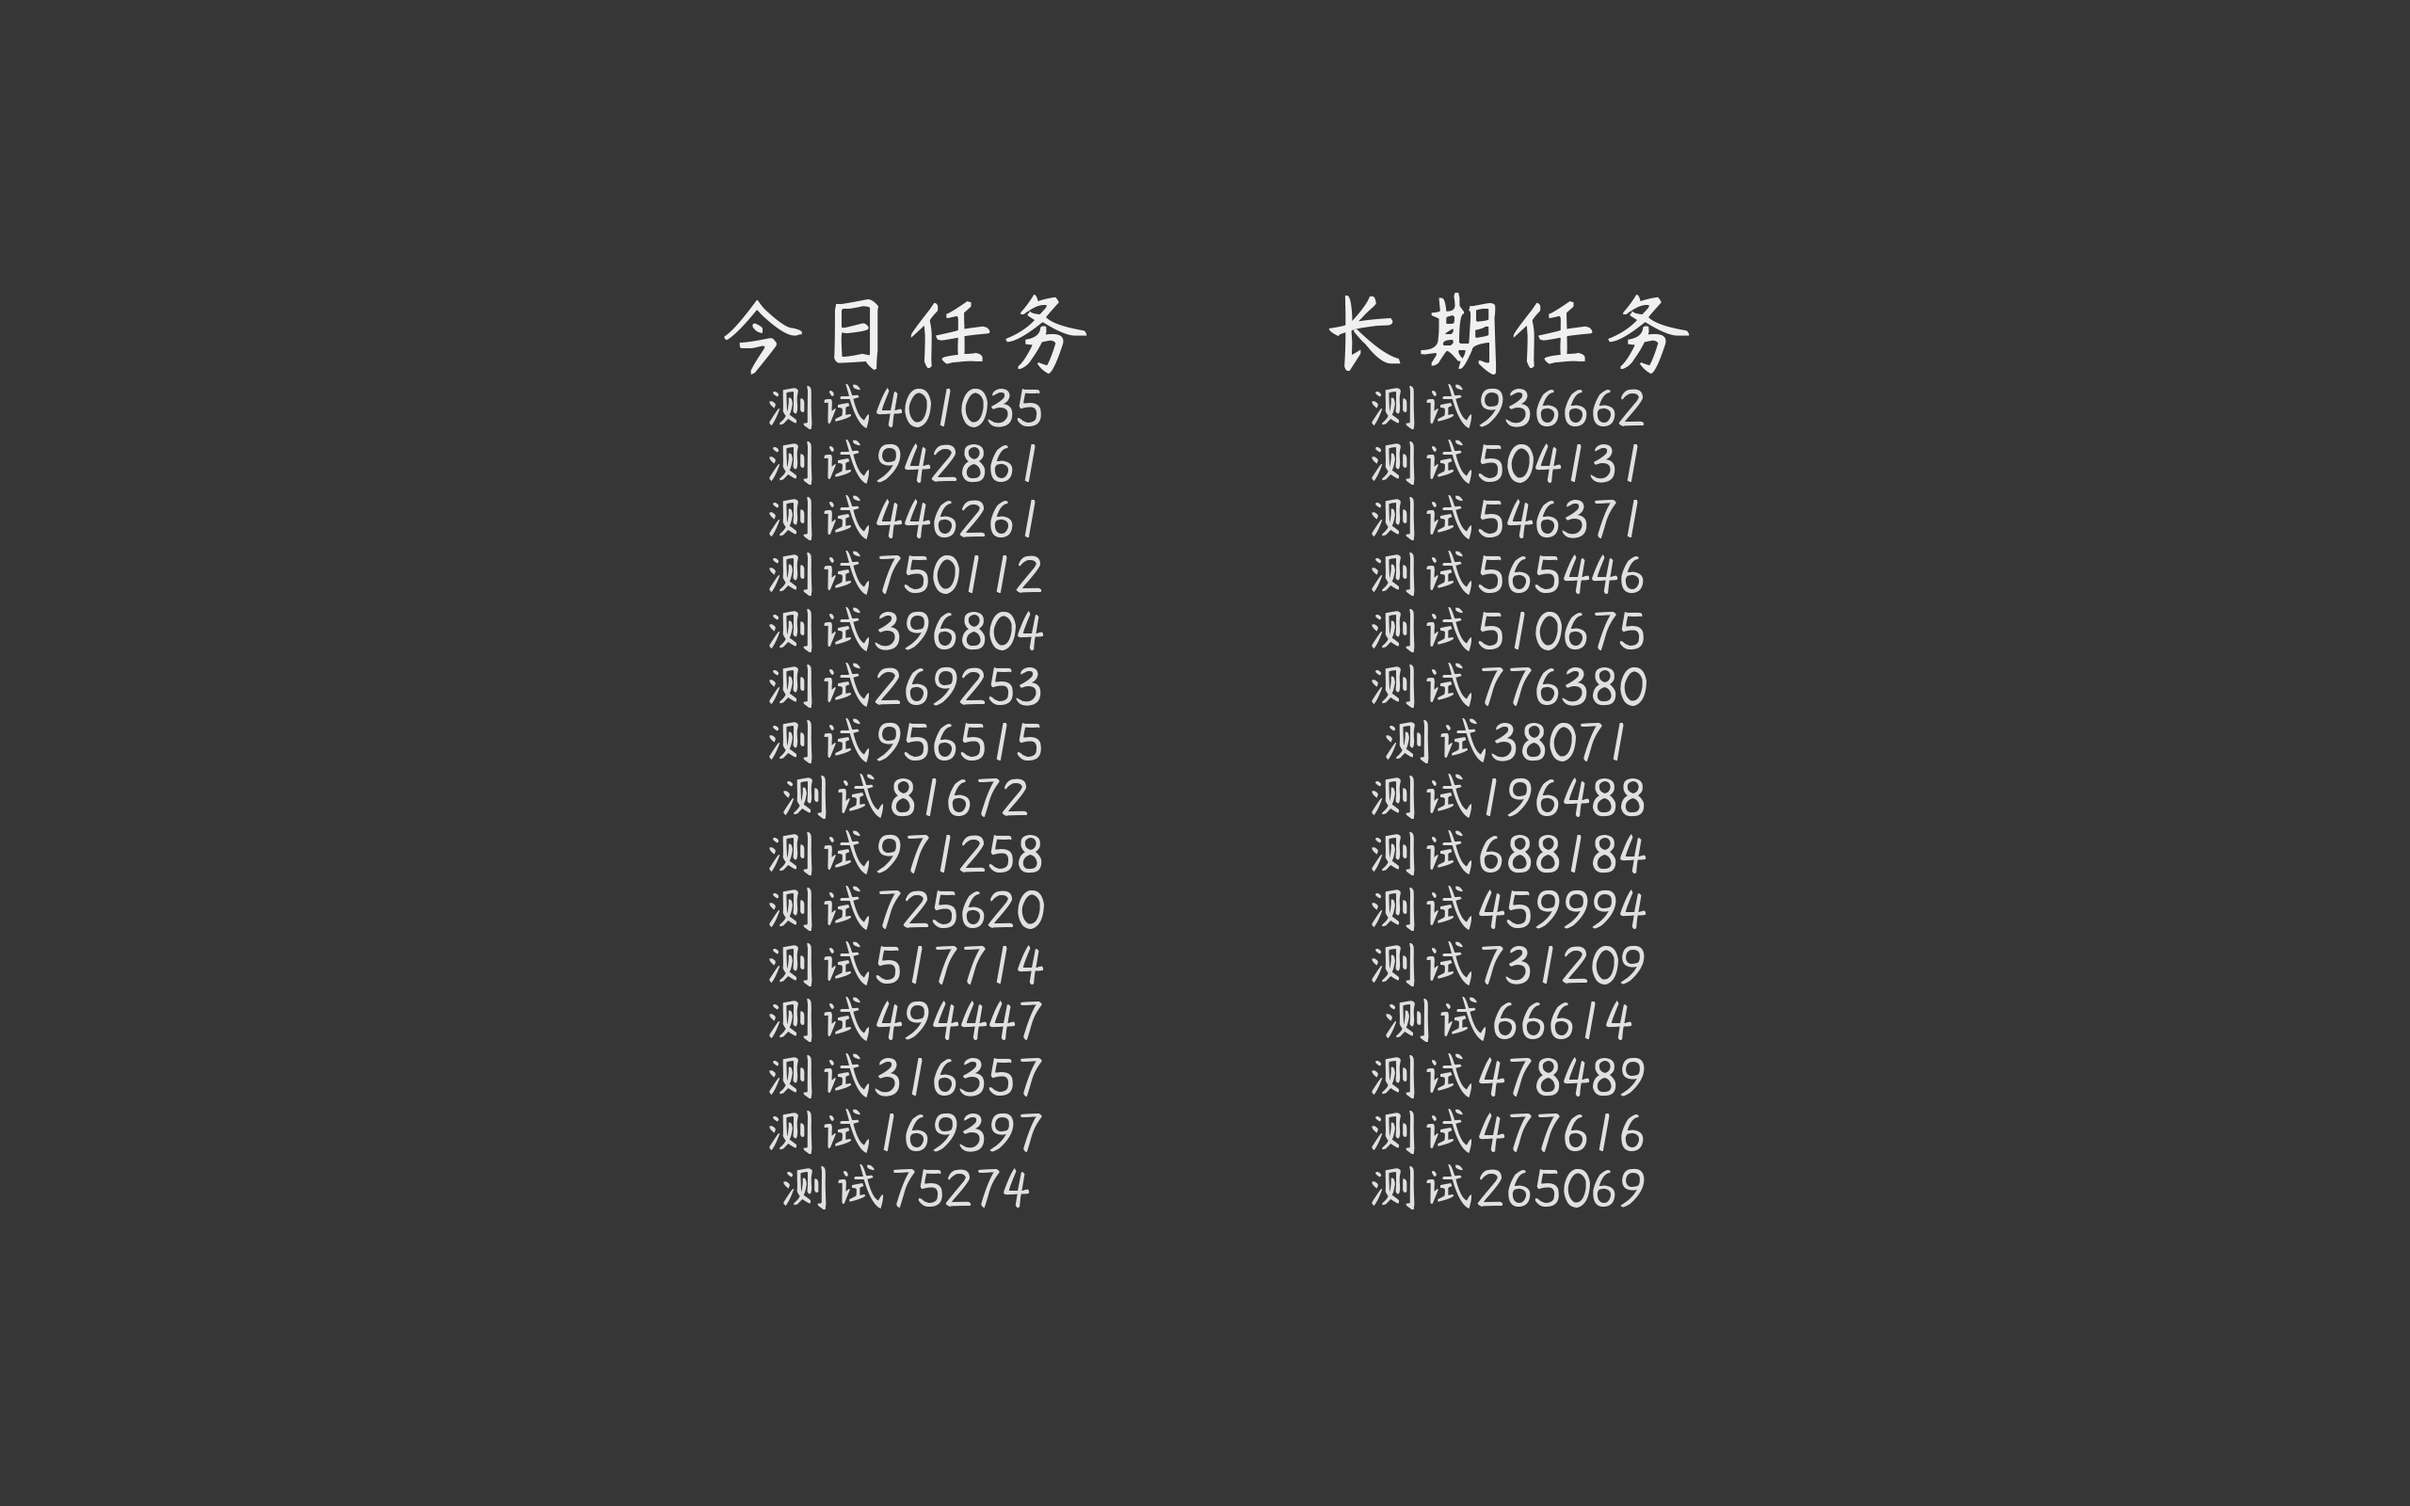
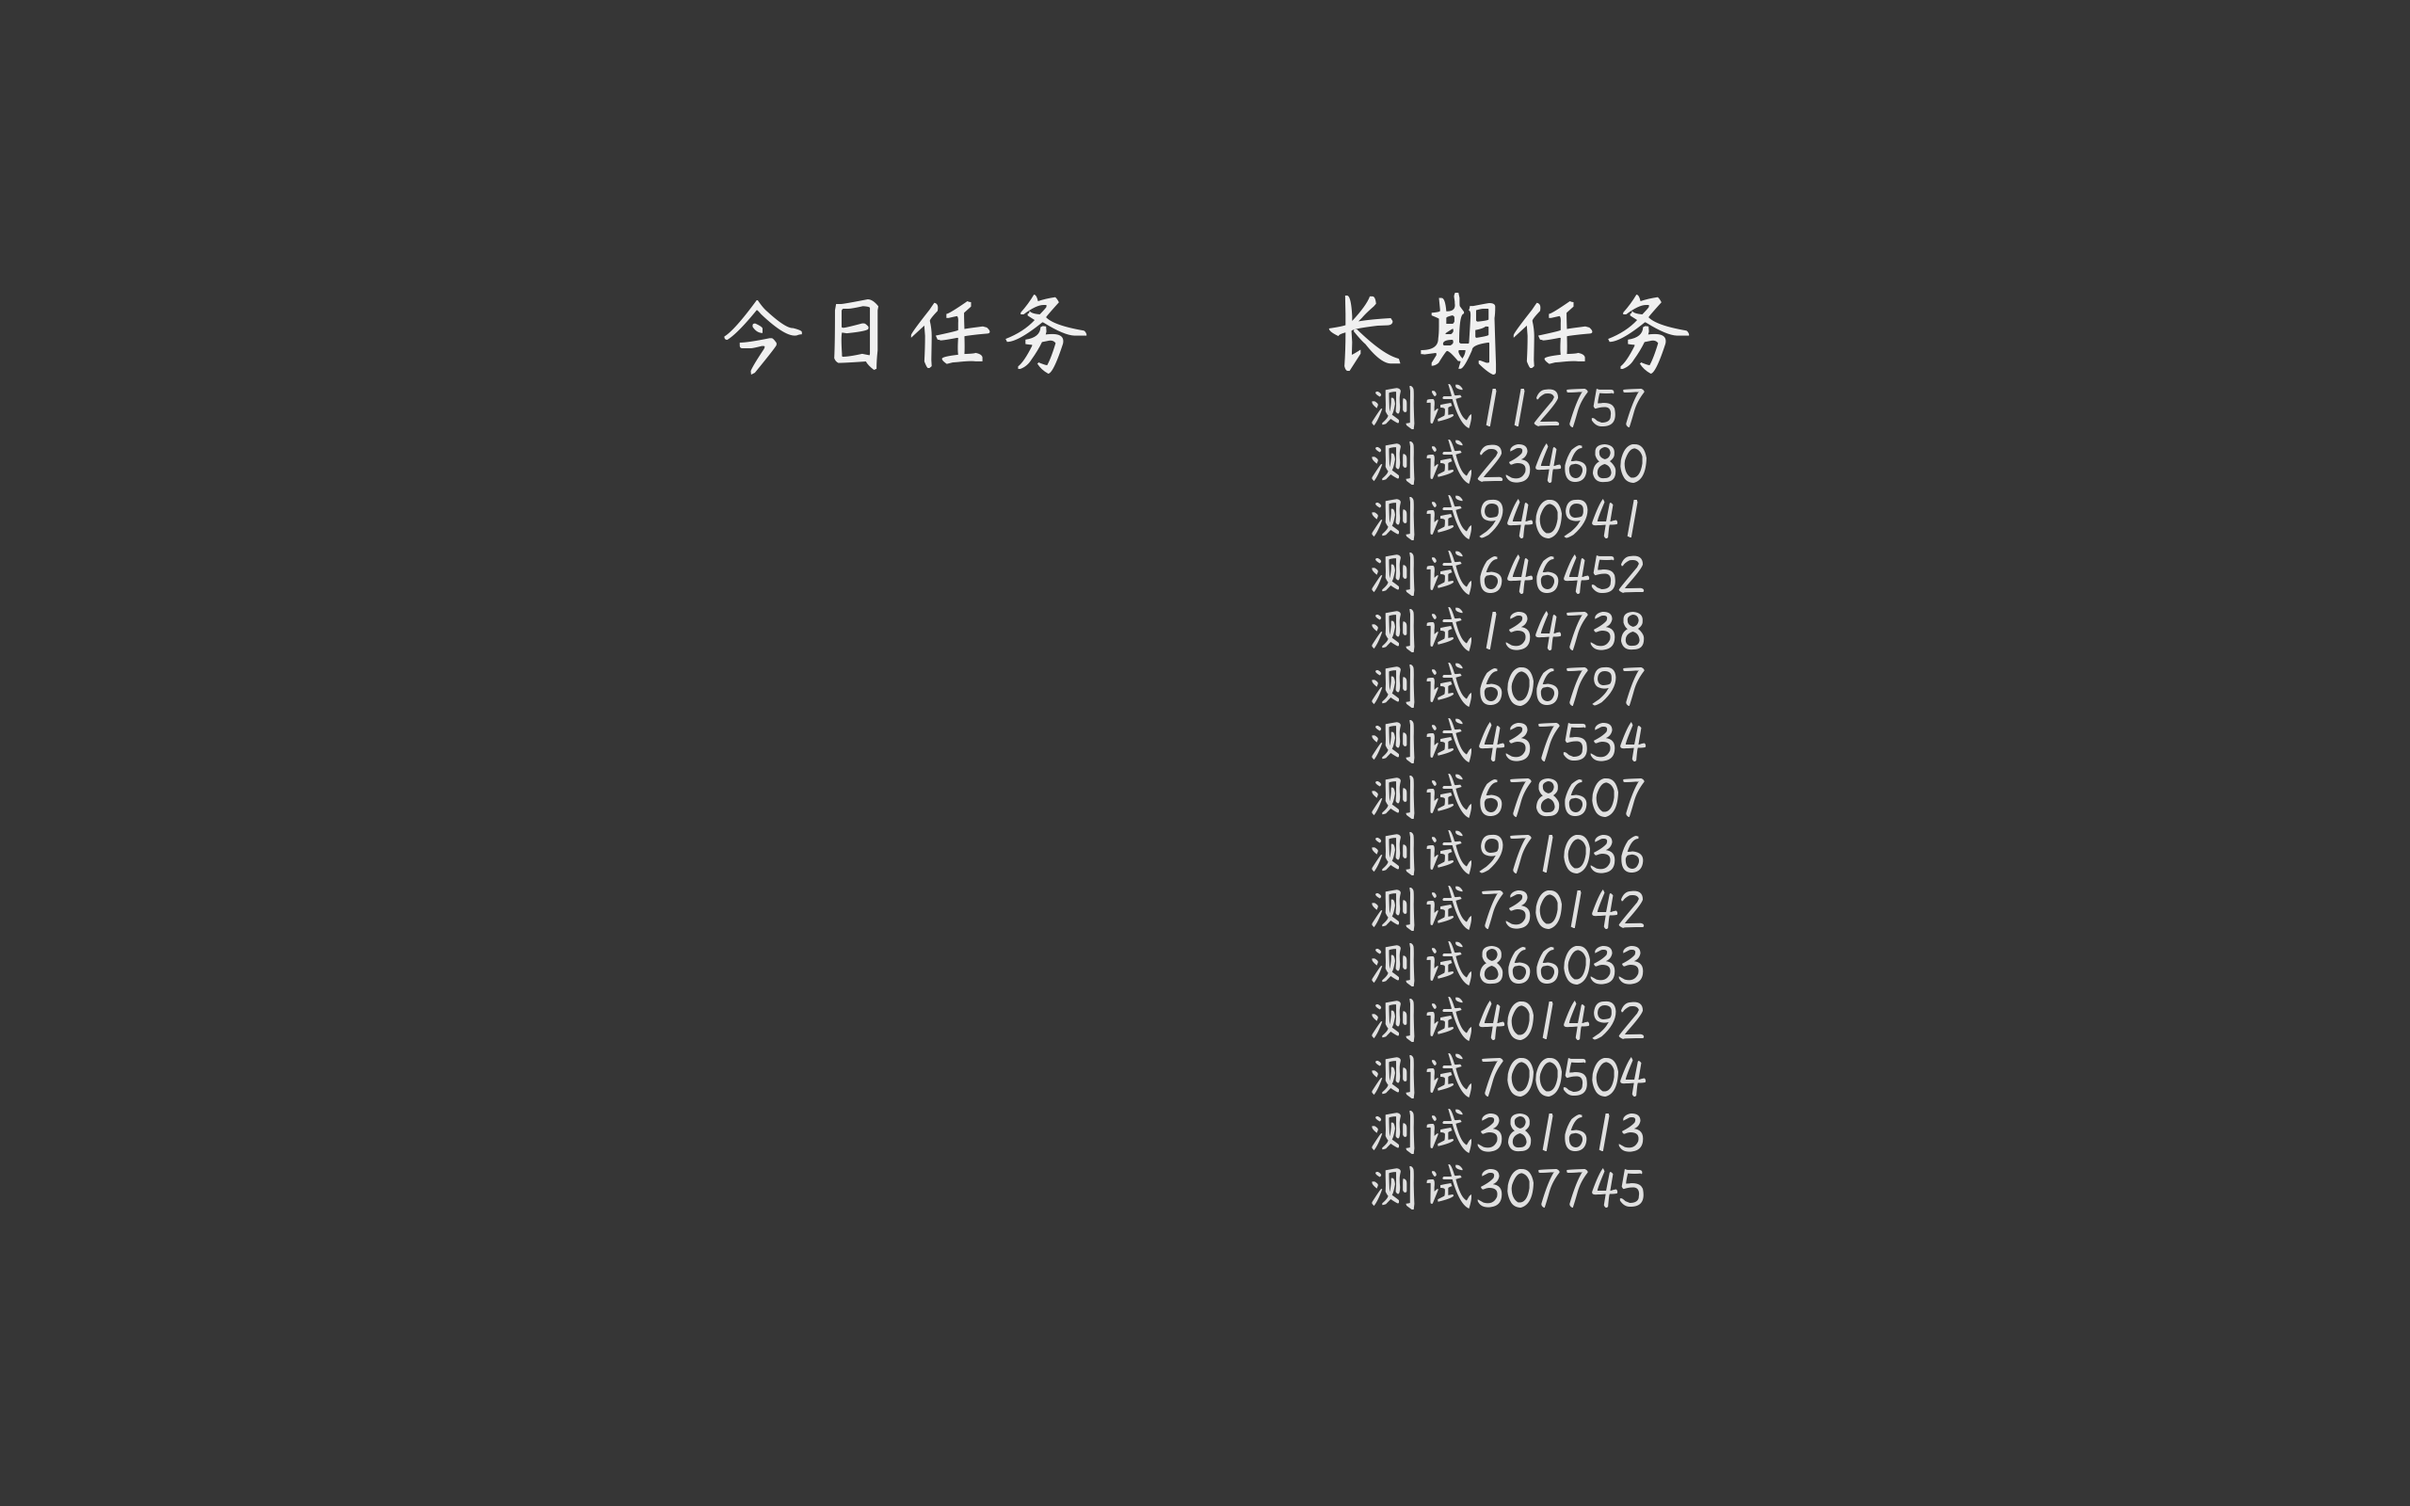
finish routine update

Changed region(s): [[0.3125, 0.25, 0.4375, 0.8125], [0.5625, 0.25, 0.6875, 0.8125]]

diff --git a/Code/Routine/routine.py b/Code/Routine/routine.py
@@ -1,6 +1,7 @@
 # routine.py
 
 from Routine import r_io
+import time
 
 # 创建周期任务
 def r_create():
@@ -11,11 +12,59 @@ def r_create():
     while True:
         try:
             int(cycle)
-            break
+            if cycle > 0:
+                break
+            else:
+                cycle = input('请输入正确的周期：')
         except:
             cycle = input('请输入正确的周期：')
     # 写入文件
     r_io.r_out_new(mission, cycle)
+
+# 标记周期任务已完成
+def r_finish():
+    # 获取文件内容
+    routine_list = r_io.r_in()
+    # 判断文件是否为空
+    if routine_list == []:
+        input('没有周期任务，按回车继续')
+        return
+    # 打印可标记的选项
+    index = 1
+    j = 0
+    routine_dict = {}
+    print('请选择已完成的周期任务序号：')
+    for r in routine_list:
+        # 判断任务是否被完成
+        if r[0] == '0':
+            # 判断是否在时间周期内
+            timegap = time.time() - time.mktime(time.strptime(r.split(',')[1], '%Y/%m/%d'))
+            if timegap % (3600 * 24 * int(r.split(',')[3])) < 3600 * 24:
+                mission = r.split(',')[2]
+                print('{}. {}'.format(index, mission))
+                routine_dict[index] = j
+                index += 1
+        j += 1
+    choice = input()
+    # 检测输入合法性
+    while True:
+        try:
+            choice = int(choice)
+            if choice <= 0 or choice > len(routine_list):
+                choice = input('请输入正确的序号：')
+            else:
+                break
+        except:
+            choice = input('请输入正确的序号：')
+    # 标记列表中的对象
+    r_temp = routine_list[routine_dict[choice]][1:]
+    r_temp = '1' + r_temp
+    routine_list[routine_dict[choice]] = r_temp
+    # 重新写入
+    r_file = open(r_io.ROUTINE_FILE, 'w', encoding='UTF-8')
+    r_file.close()
+    for r_line in routine_list:
+        r_io.r_out_old(r_line)
 
 # 删除周期任务
 def r_delete():

diff --git a/Code/Routine/r_paint.py b/Code/Routine/r_paint.py
@@ -1,5 +1,6 @@
 # r_paint.py
 
+import time
 from paint_init import *
 from Routine import r_io
 
@@ -9,16 +10,24 @@ def paint_routine():
     r_title_location = (WIN_WIDTH / 8 * 3 - r_title_size[0] / 2, WIN_HEIGHT * 3 / 16)
     DRAW.text(r_title_location, '今日任务', TITLE_COLOR, TITLE_FONT)
     # 绘制任务
-    with open(r_io.ROUTINE_FILE, 'r', encoding='UTF-8') as r_file:
-        r_mission_h = WIN_HEIGHT / 4
-        count = 0
-        for r in r_file.readlines():
-            mission = r.split(',')[2]
-            r_mission_size = MISSION_FONT.getsize(mission)[0]
-            r_mission_w = WIN_WIDTH / 8 * 3 - r_mission_size / 2
-            DRAW.text((r_mission_w, r_mission_h), mission, MISSION_COLOR, MISSION_FONT)
-            r_mission_h += WIN_HEIGHT / 27 # 控制行距
-            count += 1
-            if count >= 15:
-                break
-        r_file.close()
+    try:
+        r_file = open(r_io.ROUTINE_FILE, 'r', encoding='UTF-8')
+    except:
+        return
+    r_mission_h = WIN_HEIGHT / 4
+    count = 0
+    for r in r_file.readlines():
+        # 判断任务是否被完成
+        if r[0] == '0':
+            # 判断是否在时间周期内
+            timegap = time.time() - time.mktime(time.strptime(r.split(',')[1], '%Y/%m/%d'))
+            if timegap % (3600 * 24 * int(r.split(',')[3])) < 3600 * 24:
+                mission = r.split(',')[2]
+                r_mission_size = MISSION_FONT.getsize(mission)[0]
+                r_mission_w = WIN_WIDTH / 8 * 3 - r_mission_size / 2
+                DRAW.text((r_mission_w, r_mission_h), mission, MISSION_COLOR, MISSION_FONT)
+                r_mission_h += WIN_HEIGHT / 27 # 控制行距
+                count += 1
+                if count >= 15:
+                    break
+    r_file.close()

diff --git a/Code/Todo.py b/Code/Todo.py
@@ -2,12 +2,15 @@
 
 from os import system
 from sys import exit
+from time import time
+
 from Routine import *
 from Event import *
 import paint
 
 func_list = [('routine.r_create()','创建周期任务'),
              ('event.e_create()','创建单次任务'),
+             ('routine.r_finish()', '标记周期任务已完成'),
              ('routine.r_delete()','删除周期任务'),
              ('event.e_delete()','删除单次任务'),
              ('','启用可选模块'),
@@ -31,7 +34,7 @@ def main():
         try:
             if choice == '0':
                 paint.generateWallpaper()
-                paint.setWallpaper()
+                # paint.setWallpaper()
                 break
             else:
                 eval(func_list[int(choice) - 1][0])
@@ -44,4 +47,7 @@ if __name__ == '__main__':
     # for i in range(20):
     #     r_io.r_out_new('测试{}'.format(randint(0, 999999)), randint(0, 99))
     #     e_io.e_out_new('测试{}'.format(randint(0, 999999)), '{}/{}/{}'.format(randint(2000,2021), randint(1, 12), randint(1, 30)))
-    main()
+
+    # paint.generateWallpaper()
+    routine.r_finish()
+    # main()

diff --git a/Code/Event/e_paint.py b/Code/Event/e_paint.py
@@ -9,7 +9,8 @@ def paint_event():
     e_title_location = (WIN_WIDTH / 8 * 5 - e_title_size[0] / 2, WIN_HEIGHT * 3 / 16)
     DRAW.text(e_title_location, '长期任务', TITLE_COLOR, TITLE_FONT)
     # 绘制任务
-    with open(e_io.EVENT_FILE, 'r', encoding='UTF-8') as e_file:
+    try:
+        e_file = open(e_io.EVENT_FILE, 'r', encoding='UTF-8')
         e_mission_h = WIN_HEIGHT / 4
         count = 0
         for e in e_file.readlines():
@@ -22,3 +23,5 @@ def paint_event():
             if count >= 15:
                 break
         e_file.close()
+    except:
+        pass

diff --git a/Code/Routine/r_io.py b/Code/Routine/r_io.py
@@ -1,6 +1,8 @@
 # r_io.py
 
-import time
+from time import gmtime
+from time import strftime
+from Update import CHINA_TIME
 
 ROUTINE_FILE = 'Routine\\routine.txt'
 
@@ -18,7 +20,7 @@ def r_in():
 # 向文档中写入一条新routine，需要传入两个string
 def r_out_new(mission, cycle):
     r_file = open(ROUTINE_FILE, 'a', encoding='UTF-8')
-    start = str(time.time())
+    start = str(strftime('%Y/%m/%d', gmtime(CHINA_TIME)))
     r_file.write('0,{},{},{}\n'.format(start, mission, cycle))
     r_file.close()
 

diff --git a/Code/Event/event.py b/Code/Event/event.py
@@ -1,6 +1,6 @@
 # event.py
 
-import time
+from time import strptime
 from Event import e_io
 
 # 创建长期任务
@@ -12,7 +12,7 @@ def e_create():
     # 检测输入合法性
     while True:
         try:
-            date = time.strptime(ddl, '%Y/%m/%d')
+            date = strptime(ddl, '%Y/%m/%d')
             break
         except:
             ddl = input('请输入正确格式的日期：')

diff --git a/Code/Update.py b/Code/Update.py
@@ -1,0 +1,6 @@
+# Update.py
+
+from time import time
+
+# 中国时间戳
+CHINA_TIME = time() + 3600 * 8

diff --git a/Code/Event/e_io.py b/Code/Event/e_io.py
@@ -1,4 +1,5 @@
 # e_io.py
+
 import time
 
 EVENT_FILE = 'Event\\event.txt'
